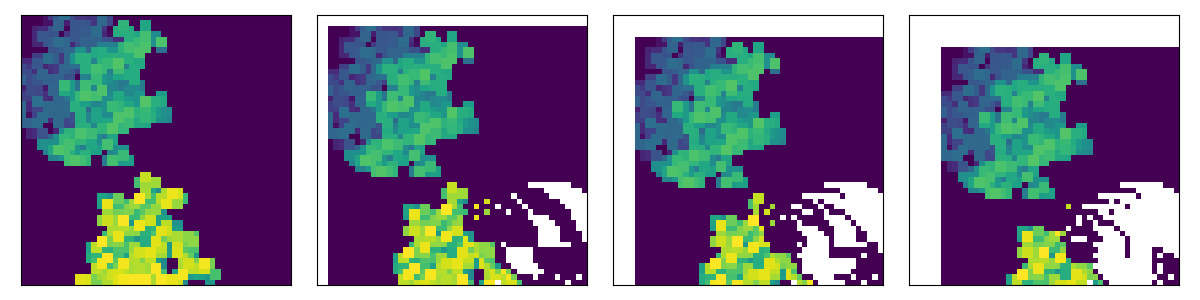
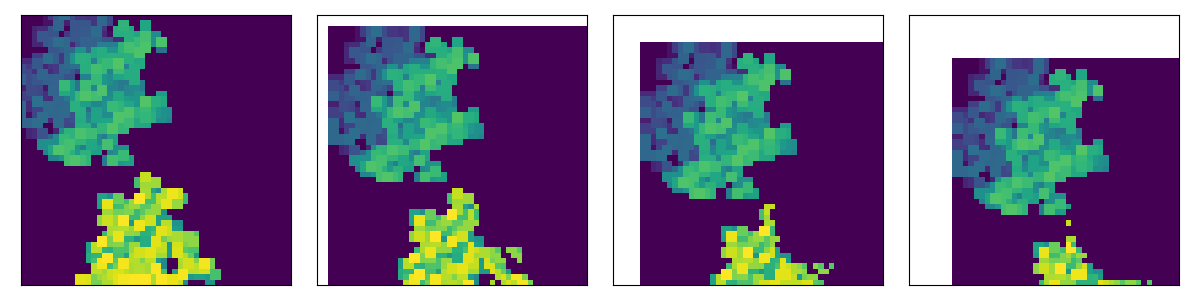
Added interpolation to vectorfield-based benchmarks

Changed region(s): [[0.7708, 0.15, 0.9867, 0.96], [0.5242, 0.12, 0.74, 0.96], [0.2467, 0.09, 0.4933, 0.96]]

diff --git a/benchmarks/benchmark_from_vectorfield.py b/benchmarks/benchmark_from_vectorfield.py
@@ -89,18 +89,27 @@ def main():
     # Init first time step (t = 0) to original raster
     rasters_ts[sample_idx, :, :, 0] = rasters[sample_idx,:,:,0]
  
-    # For each time step, determine values of each (row, col)
-    # by applying the vector field
+    # Iterate over time steps
     for timestep in range(1, time_steps):
+      # Shift cell values based on vector field
       for row in range(rows):
         for col in range(cols):
-          row_new = int(row + field_y[row, col])
-          col_new = int(col + field_x[row, col])
-          try:
-            rasters_ts[sample_idx, row_new, col_new, timestep] = \
-               rasters_ts[sample_idx, row, col, timestep - 1]
-          except:
-            pass
+          row_old = int(row - field_y[row, col])
+          col_old = int(col - field_x[row, col])
+          if row_old >= 0 and row_old < rows and col_old >= 0 and col_old < cols:
+            rasters_ts[sample_idx, row, col, timestep] = \
+              rasters_ts[sample_idx, row_old, col_old, timestep - 1]
+
+      # Interpolate grid to remove NaNs
+      # Interpolate the NaNs
+      xx, yy = np.meshgrid(np.arange(0, cols), 
+                           np.arange(0, rows))
+      valids = np.ma.masked_invalid(rasters_ts[sample_idx, :, :, timestep])
+      x_valid = xx[~valids.mask]
+      y_valid = yy[~valids.mask]
+      arr = valids[~valids.mask]
+      rasters_ts[sample_idx, :, :, timestep] = interpolate.griddata((x_valid, y_valid), 
+                                                arr.ravel(), (xx, yy), method="cubic") 
 
   # Write
   np.savez(output_file, **{output_varname: rasters_ts})
